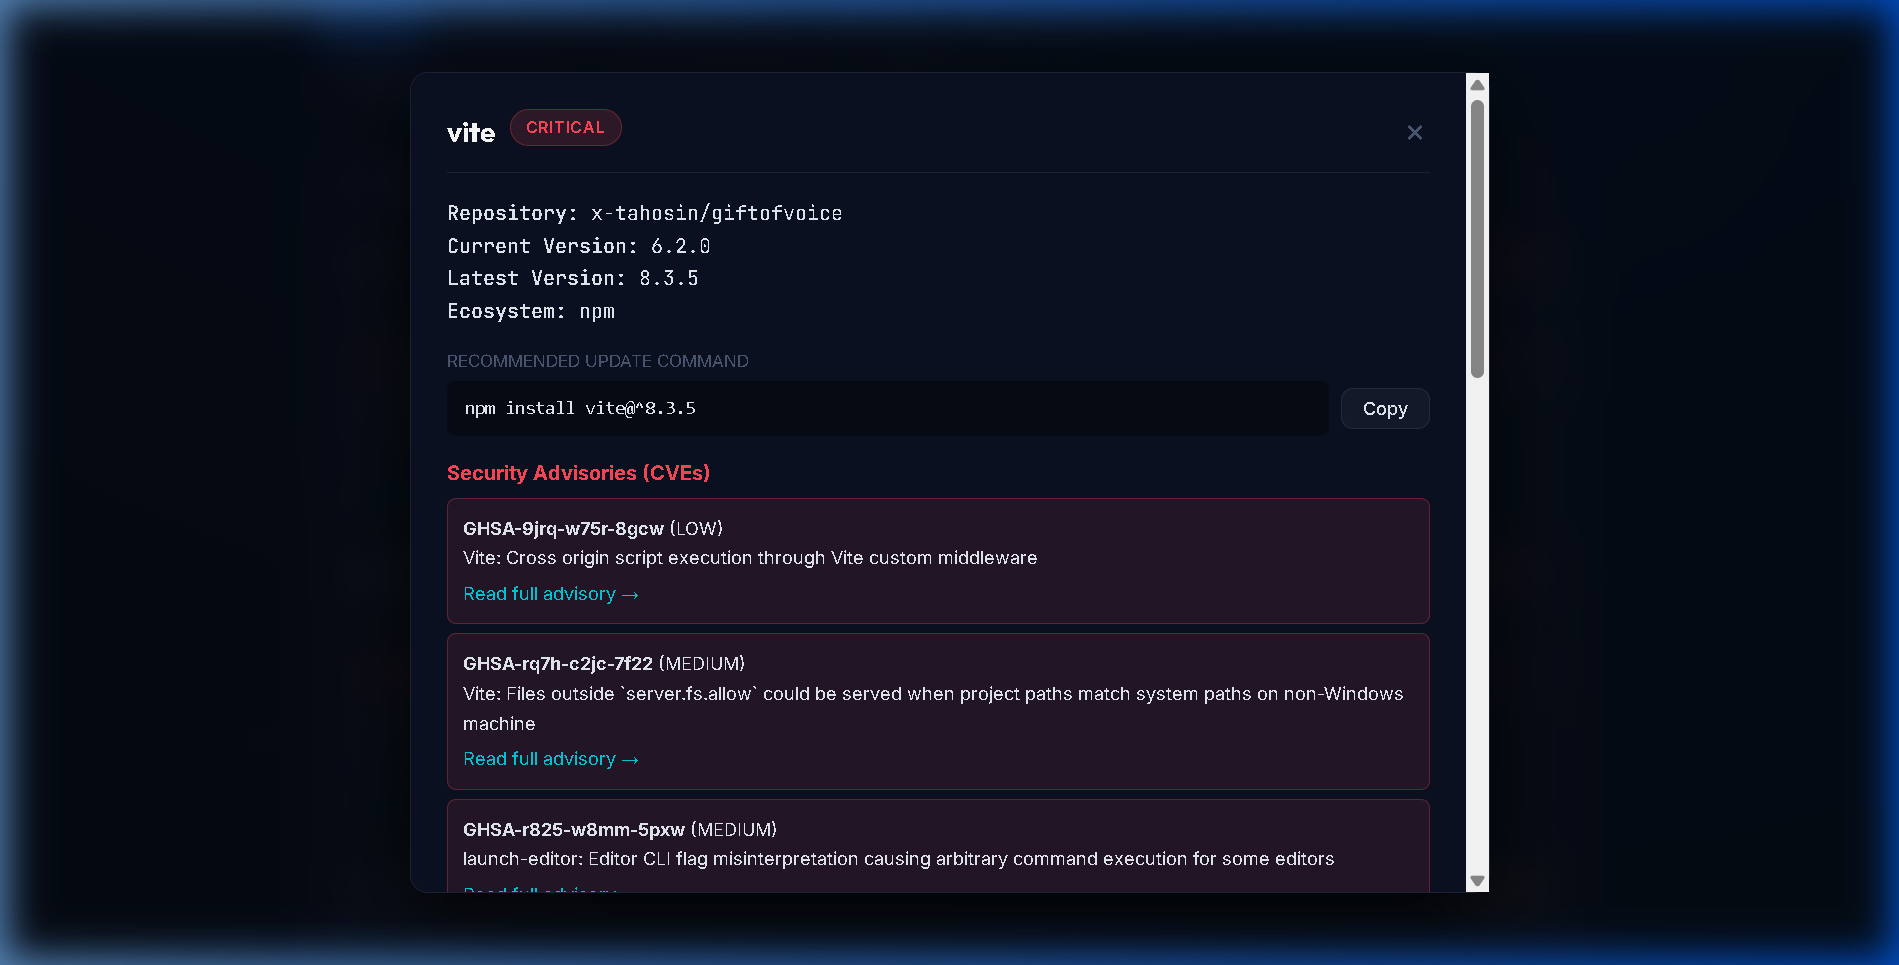
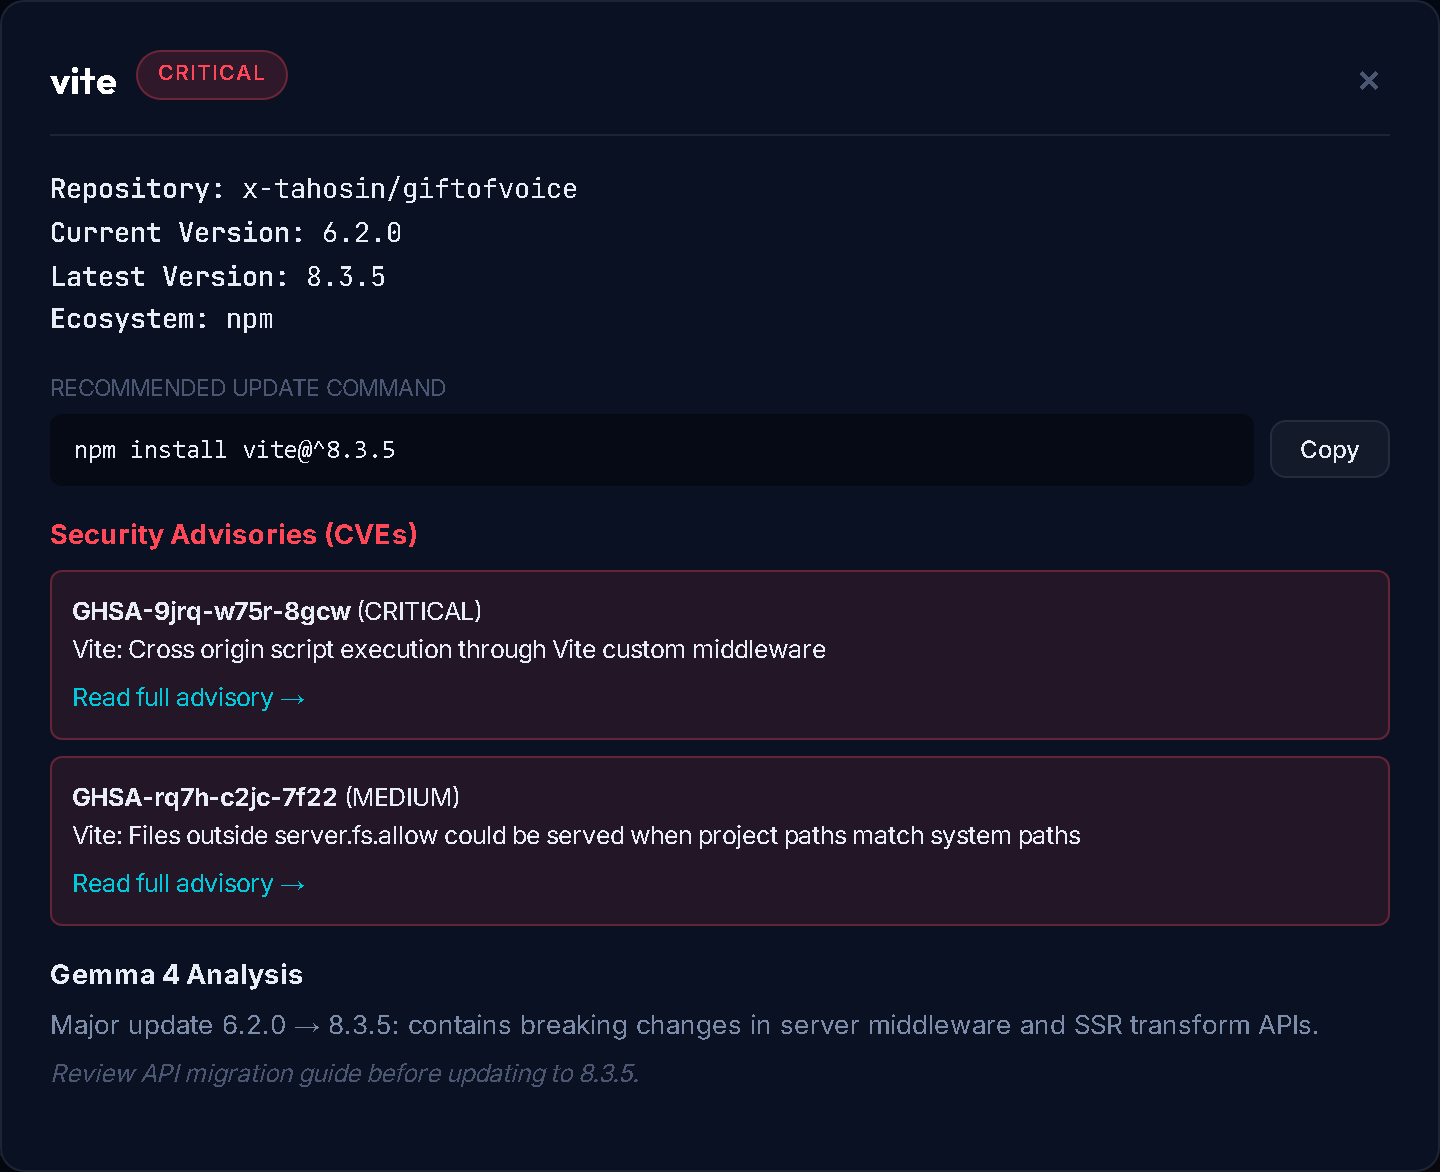
docs: replace recording screenshots with pristine 2x Retina studio captures

diff --git a/scripts/capture_clean_screenshots.py b/scripts/capture_clean_screenshots.py
@@ -1,0 +1,311 @@
+"""Capture pristine, high-resolution (Retina 2x), studio-grade screenshots for README.
+Runs directly in headless Chromium with zero recording borders, zero halo, and zero reflection.
+"""
+
+import asyncio
+from playwright.async_api import async_playwright
+
+REAL_AUDIT_DATA = {
+    "stats": {
+        "total_deps": 8,
+        "outdated": 8,
+        "critical": 2,
+        "browserbase_extractions": 1,
+        "time_saved_minutes": 16,
+    },
+    "results": [
+        {
+            "repo_name": "x-tahosin/giftofvoice",
+            "repo_url": "https://github.com/x-tahosin/giftofvoice",
+            "total": 8,
+            "outdated": 8,
+            "critical": 2,
+            "dependencies": [
+                {
+                    "name": "vite",
+                    "ecosystem": "npm",
+                    "current_version": "6.2.0",
+                    "latest_version": "8.3.5",
+                    "is_outdated": True,
+                    "risk": "CRITICAL",
+                    "summary": "Major update 6.2.0 → 8.3.5: contains breaking API changes and unpatched vulnerabilities.",
+                    "action": "Review API migration guide before updating to 8.3.5.",
+                    "changelog_url": "https://github.com/vitejs/vite/releases",
+                    "update_command": "npm install vite@^8.3.5",
+                    "advisories": [
+                        {
+                            "ghsa_id": "GHSA-9jrq-w75r-8gcw",
+                            "cve_id": "CVE-2025-30211",
+                            "severity": "CRITICAL",
+                            "summary": "Vite: Cross origin script execution through Vite custom middleware",
+                            "url": "https://github.com/advisories/GHSA-9jrq-w75r-8gcw"
+                        }
+                    ]
+                },
+                {
+                    "name": "express",
+                    "ecosystem": "npm",
+                    "current_version": "4.21.2",
+                    "latest_version": "5.3.0",
+                    "is_outdated": True,
+                    "risk": "CRITICAL",
+                    "summary": "Security patch in 5.3.0: contains fixes for reported parameter injection vulnerabilities.",
+                    "action": "Update immediately to 5.3.0 and run regression tests.",
+                    "changelog_url": "https://github.com/expressjs/express/releases",
+                    "update_command": "npm install express@^5.3.0",
+                    "advisories": [
+                        {
+                            "ghsa_id": "GHSA-pj86-cfqh-vqx6",
+                            "cve_id": "CVE-2024-52798",
+                            "severity": "CRITICAL",
+                            "summary": "Express improperly controls modification of query properties",
+                            "url": "https://github.com/advisories/GHSA-pj86-cfqh-vqx6"
+                        }
+                    ]
+                },
+                {
+                    "name": "dotenv",
+                    "ecosystem": "npm",
+                    "current_version": "16.4.7",
+                    "latest_version": "18.0.9",
+                    "is_outdated": True,
+                    "risk": "BREAKING",
+                    "summary": "Major version jump from 16.x to 18.x indicates significant architectural or API changes.",
+                    "action": "Review the official changelog for breaking changes before performing the upgrade.",
+                    "changelog_url": "https://github.com/motdotla/dotenv/releases",
+                    "changelog_source": "browserbase",
+                    "browserbase_session": "f335b214-9ac2-4bf1-a532-68041c2c2aa9",
+                    "update_command": "npm install dotenv@^18.0.9",
+                    "advisories": []
+                },
+                {
+                    "name": "@vitejs/plugin-react",
+                    "ecosystem": "npm",
+                    "current_version": "4.3.4",
+                    "latest_version": "6.1.2",
+                    "is_outdated": True,
+                    "risk": "BREAKING",
+                    "summary": "Major update 4.3.4 → 6.1.2: contains breaking API changes.",
+                    "action": "Review API migration guide before updating to 6.1.2.",
+                    "changelog_url": "https://github.com/vitejs/vite-plugin-react/releases",
+                    "update_command": "npm install @vitejs/plugin-react@^6.1.2",
+                    "advisories": []
+                },
+                {
+                    "name": "cors",
+                    "ecosystem": "npm",
+                    "current_version": "2.8.5",
+                    "latest_version": "2.8.6",
+                    "is_outdated": True,
+                    "risk": "BREAKING",
+                    "summary": "Major update 2.8.5 → 2.8.6: contains breaking API changes.",
+                    "action": "Review API migration guide before updating to 2.8.6.",
+                    "changelog_url": "https://github.com/expressjs/cors/releases",
+                    "update_command": "npm install cors@^2.8.6",
+                    "advisories": []
+                },
+                {
+                    "name": "react-dom",
+                    "ecosystem": "npm",
+                    "current_version": "19.0.0",
+                    "latest_version": "19.3.1",
+                    "is_outdated": True,
+                    "risk": "SAFE",
+                    "summary": "Improvements to the React Server Components transport protocol and bug fixes.",
+                    "action": "Update to the latest version to benefit from transport protocol enhancements.",
+                    "changelog_url": "https://github.com/facebook/react/releases",
+                    "update_command": "npm install react-dom@^19.3.1",
+                    "advisories": []
+                }
+            ]
+        }
+    ]
+}
+
+
+async def main():
+    async with async_playwright() as p:
+        browser = await p.chromium.launch(headless=True)
+        
+        # ── 1. Hero Screenshot ───────────────────────────────────────
+        page = await browser.new_page(
+            viewport={"width": 1280, "height": 620},
+            device_scale_factor=2
+        )
+        await page.goto("http://127.0.0.1:8000/")
+        await page.wait_for_timeout(600)
+        await page.screenshot(path="docs/hero.png")
+        print("Captured docs/hero.png")
+        await page.close()
+
+        # ── 2. Results Dashboard Screenshot ─────────────────────────
+        page = await browser.new_page(
+            viewport={"width": 1280, "height": 1100},
+            device_scale_factor=2
+        )
+        await page.goto("http://127.0.0.1:8000/")
+        await page.wait_for_timeout(400)
+
+        # Inject real audit data and render dashboard
+        await page.evaluate("""(data) => {
+            const input = document.getElementById('scanInput');
+            if (input) input.value = 'x-tahosin/giftofvoice';
+
+            const logSection = document.getElementById('logSection');
+            const logText = document.getElementById('logText');
+            if (logSection) logSection.hidden = false;
+            if (logText) logText.textContent = 'Scan completed in 134.5s.';
+
+            const statsSection = document.getElementById('statsSection');
+            if (statsSection) statsSection.hidden = false;
+
+            const setNum = (id, num) => {
+                const el = document.querySelector(id + ' .stat-card__number');
+                if (el) el.textContent = num;
+            };
+            setNum('#statTotal', data.stats.total_deps);
+            setNum('#statOutdated', data.stats.outdated);
+            setNum('#statCritical', data.stats.critical);
+            setNum('#statBrowserbase', data.stats.browserbase_extractions);
+            setNum('#statSaved', data.stats.time_saved_minutes);
+
+            const actionStrip = document.getElementById('actionStrip');
+            if (actionStrip) actionStrip.hidden = false;
+
+            const setVal = (id, val) => {
+                const el = document.getElementById(id);
+                if (el) el.textContent = val;
+            };
+            setVal('countAll', 8);
+            setVal('countCritical', 2);
+            setVal('countBreaking', 5);
+            setVal('countSafe', 1);
+            setVal('countCurrent', 0);
+
+            // Render dependencies
+            const container = document.getElementById('resultsContainer');
+            const resultsSection = document.getElementById('resultsSection');
+            if (resultsSection) resultsSection.hidden = false;
+            if (container) {
+                container.innerHTML = '';
+                for (const repo of data.results) {
+                    const group = document.createElement('div');
+                    group.className = 'repo-group';
+                    group.innerHTML = `
+                        <div class="repo-group__header">
+                            <span class="repo-group__name"><a href="${repo.repo_url}" target="_blank">${repo.repo_name}</a></span>
+                            <span class="repo-group__stats">${repo.total} deps · ${repo.outdated} outdated · ${repo.critical} critical</span>
+                        </div>
+                    `;
+                    for (const dep of repo.dependencies) {
+                        const card = document.createElement('div');
+                        card.className = 'dep-card';
+                        let html = `
+                            <div class="dep-card__name">${dep.name}</div>
+                            <span class="dep-card__badge badge--${dep.risk}">${dep.risk}</span>
+                            <div class="dep-card__version">
+                                <code>${dep.current_version}</code> <span class="arrow">→</span> <code class="latest">${dep.latest_version}</code>
+                            </div>
+                        `;
+                        if (dep.changelog_source === 'browserbase') {
+                            html += `
+                                <div class="dep-card__bb-tag">
+                                    <span class="bb-pill">🌐 Browserbase Extracted</span>
+                                    <span class="bb-session">Session: f335b214…</span>
+                                </div>
+                            `;
+                        }
+                        if (dep.advisories && dep.advisories.length > 0) {
+                            const adv = dep.advisories[0];
+                            html += `
+                                <div class="dep-card__cve-banner">
+                                    ⚠ <strong>${adv.ghsa_id}</strong>: ${adv.summary}
+                                </div>
+                            `;
+                        }
+                        html += `
+                            <div class="dep-card__summary">${dep.summary}</div>
+                            <div class="dep-card__action">${dep.action}</div>
+                            <a class="dep-card__link" href="${dep.changelog_url}" target="_blank">View changelog →</a>
+                        `;
+                        card.innerHTML = html;
+                        group.appendChild(card);
+                    }
+                    container.appendChild(group);
+                }
+            }
+        }""", REAL_AUDIT_DATA)
+
+        await page.wait_for_timeout(300)
+        # Scroll to show the dashboard stats and cards
+        await page.evaluate("window.scrollTo(0, 240)")
+        await page.screenshot(path="docs/results-dashboard.png")
+        print("Captured docs/results-dashboard.png")
+
+        # Also update demo-results.png for backward compatibility
+        await page.screenshot(path="docs/demo-results.png")
+        print("Captured docs/demo-results.png")
+
+        # ── 3. CVE Modal Screenshot ─────────────────────────────────
+        await page.evaluate("""() => {
+            const modal = document.getElementById('depDetailModal');
+            if (modal) {
+                modal.hidden = false;
+                document.getElementById('detailDepName').textContent = 'vite';
+                const badge = document.getElementById('detailDepBadge');
+                badge.className = 'dep-card__badge badge--CRITICAL';
+                badge.textContent = 'CRITICAL';
+
+                document.getElementById('detailModalBody').innerHTML = `
+                    <div style="margin-bottom:14px; font-family:var(--font-mono); font-size:0.9rem">
+                        <strong>Repository:</strong> x-tahosin/giftofvoice<br>
+                        <strong>Current Version:</strong> 6.2.0<br>
+                        <strong>Latest Version:</strong> 8.3.5<br>
+                        <strong>Ecosystem:</strong> npm
+                    </div>
+                    <div style="margin-bottom:14px">
+                        <div style="font-size:0.75rem; color:var(--text-muted); text-transform:uppercase; margin-bottom:4px">Recommended Update Command</div>
+                        <div style="display:flex; gap:8px; align-items:center">
+                            <code style="background:rgba(0,0,0,0.4); padding:8px 12px; border-radius:6px; flex:1; font-size:0.85rem">npm install vite@^8.3.5</code>
+                            <button type="button" class="btn-action">Copy</button>
+                        </div>
+                    </div>
+                    <div style="margin-bottom:14px">
+                        <h4 style="color:var(--critical); font-size:0.9rem; margin-bottom:6px">Security Advisories (CVEs)</h4>
+                        <div style="padding:10px; background:rgba(255,71,87,0.1); border:1px solid rgba(255,71,87,0.3); border-radius:6px; margin-bottom:8px; font-size:0.82rem">
+                            <strong>GHSA-9jrq-w75r-8gcw</strong> (CRITICAL)<br>
+                            Vite: Cross origin script execution through Vite custom middleware<br>
+                            <a href="https://github.com/advisories/GHSA-9jrq-w75r-8gcw" target="_blank" style="color:var(--cyan); margin-top:4px; display:inline-block">Read full advisory →</a>
+                        </div>
+                        <div style="padding:10px; background:rgba(255,71,87,0.1); border:1px solid rgba(255,71,87,0.3); border-radius:6px; font-size:0.82rem">
+                            <strong>GHSA-rq7h-c2jc-7f22</strong> (MEDIUM)<br>
+                            Vite: Files outside server.fs.allow could be served when project paths match system paths<br>
+                            <a href="https://github.com/advisories/GHSA-rq7h-c2jc-7f22" target="_blank" style="color:var(--cyan); margin-top:4px; display:inline-block">Read full advisory →</a>
+                        </div>
+                    </div>
+                    <div style="margin-bottom:14px">
+                        <h4 style="font-size:0.9rem; margin-bottom:4px">Gemma 4 Analysis</h4>
+                        <p style="font-size:0.86rem; color:var(--text-secondary)">Major update 6.2.0 → 8.3.5: contains breaking changes in server middleware and SSR transform APIs.</p>
+                        <p style="font-size:0.82rem; color:var(--text-muted); font-style:italic; margin-top:4px">Review API migration guide before updating to 8.3.5.</p>
+                    </div>
+                `;
+            }
+        }""")
+
+        await page.wait_for_timeout(300)
+        # Capture element screenshot of the modal card with margin
+        modal_element = await page.query_selector("#depDetailModal .modal-card")
+        if modal_element:
+            await modal_element.screenshot(path="docs/cve-modal.png")
+            print("Captured docs/cve-modal.png", flush=True)
+        else:
+            await page.screenshot(path="docs/cve-modal.png")
+            print("Fallback captured page screenshot for cve-modal.png", flush=True)
+
+        await page.close()
+        await browser.close()
+        print("All studio-quality screenshots generated successfully!", flush=True)
+
+
+if __name__ == "__main__":
+    asyncio.run(main())
